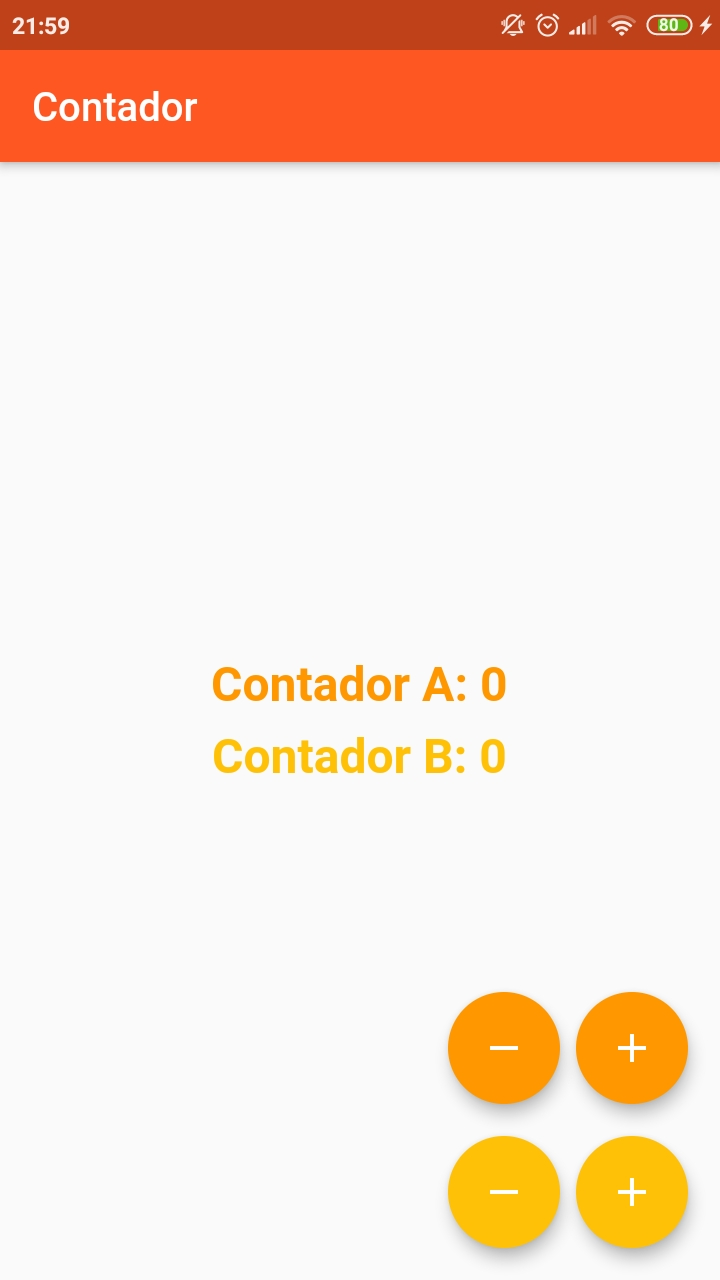
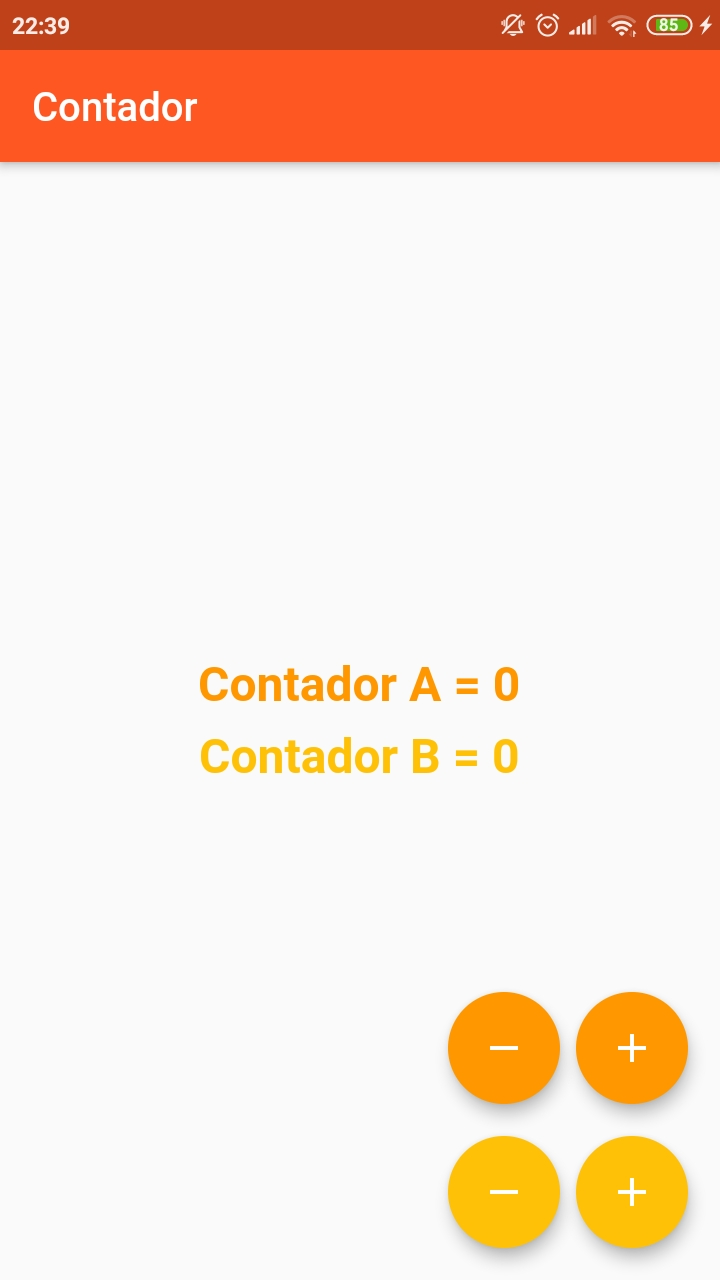
change screenshot

Changed region(s): [[0.275, 0.5, 0.7333, 0.625], [0.0306, 0.0, 0.0917, 0.0312]]

diff --git a/lib/main.dart b/lib/main.dart
@@ -7,6 +7,7 @@ class MyApp extends StatelessWidget {
   Widget build(BuildContext context) {
     return MaterialApp(
       title: 'Contador',
+      debugShowCheckedModeBanner: false,
       theme: ThemeData(
         primarySwatch: Colors.deepOrange,
       ),
@@ -51,7 +52,7 @@ class _MyHomePageState extends State<MyHomePage> {
           mainAxisAlignment: MainAxisAlignment.center,
           children: <Widget>[
             Text(
-              'Contador A: $_counterA',
+              'Contador A = $_counterA',
               style: TextStyle(
                   color: Colors.orange,
                   fontWeight: FontWeight.bold,
@@ -59,7 +60,7 @@ class _MyHomePageState extends State<MyHomePage> {
             ),
             SizedBox(height: 8),
             Text(
-              'Contador B: $_counterB',
+              'Contador B = $_counterB',
               style: TextStyle(
                   color: Colors.amber,
                   fontWeight: FontWeight.bold,

diff --git a/README.md b/README.md
@@ -2,4 +2,10 @@
 
 <div align="center"> Counter two variables simultaneously. Flutter project. </div>
 
-![Screenshot](screenshot/image.jpeg)
+### Screenshot
+
+![Screenshot](screenshot/image.jpeg) {
+width: 45%;
+border: none;
+background: none;
+}
